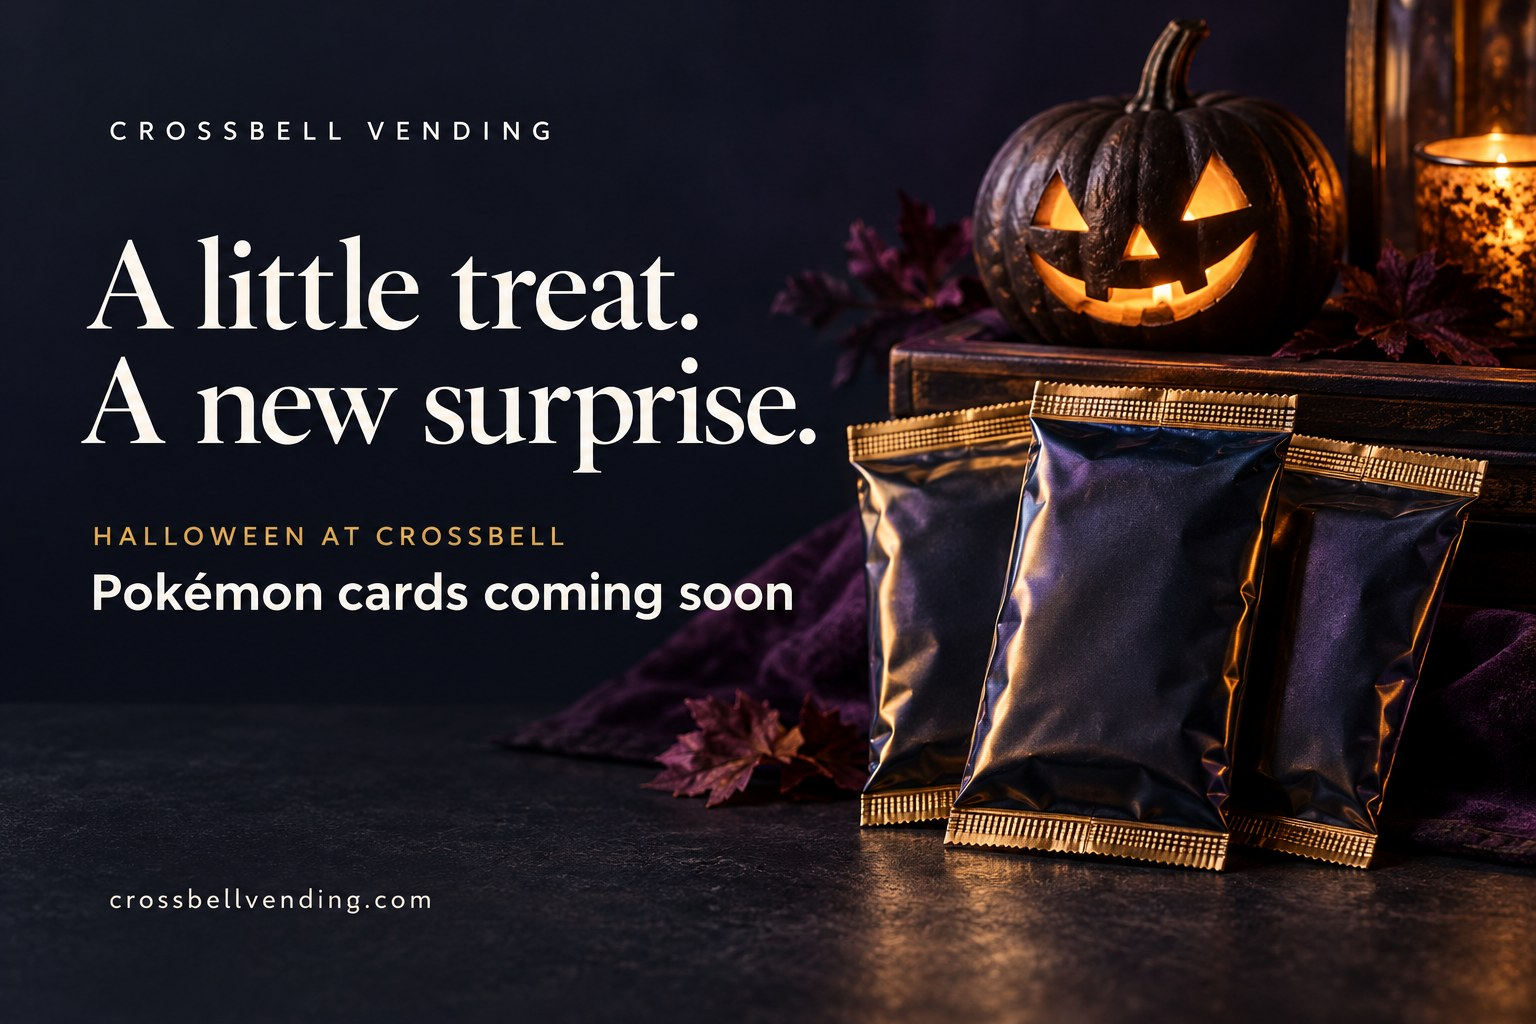
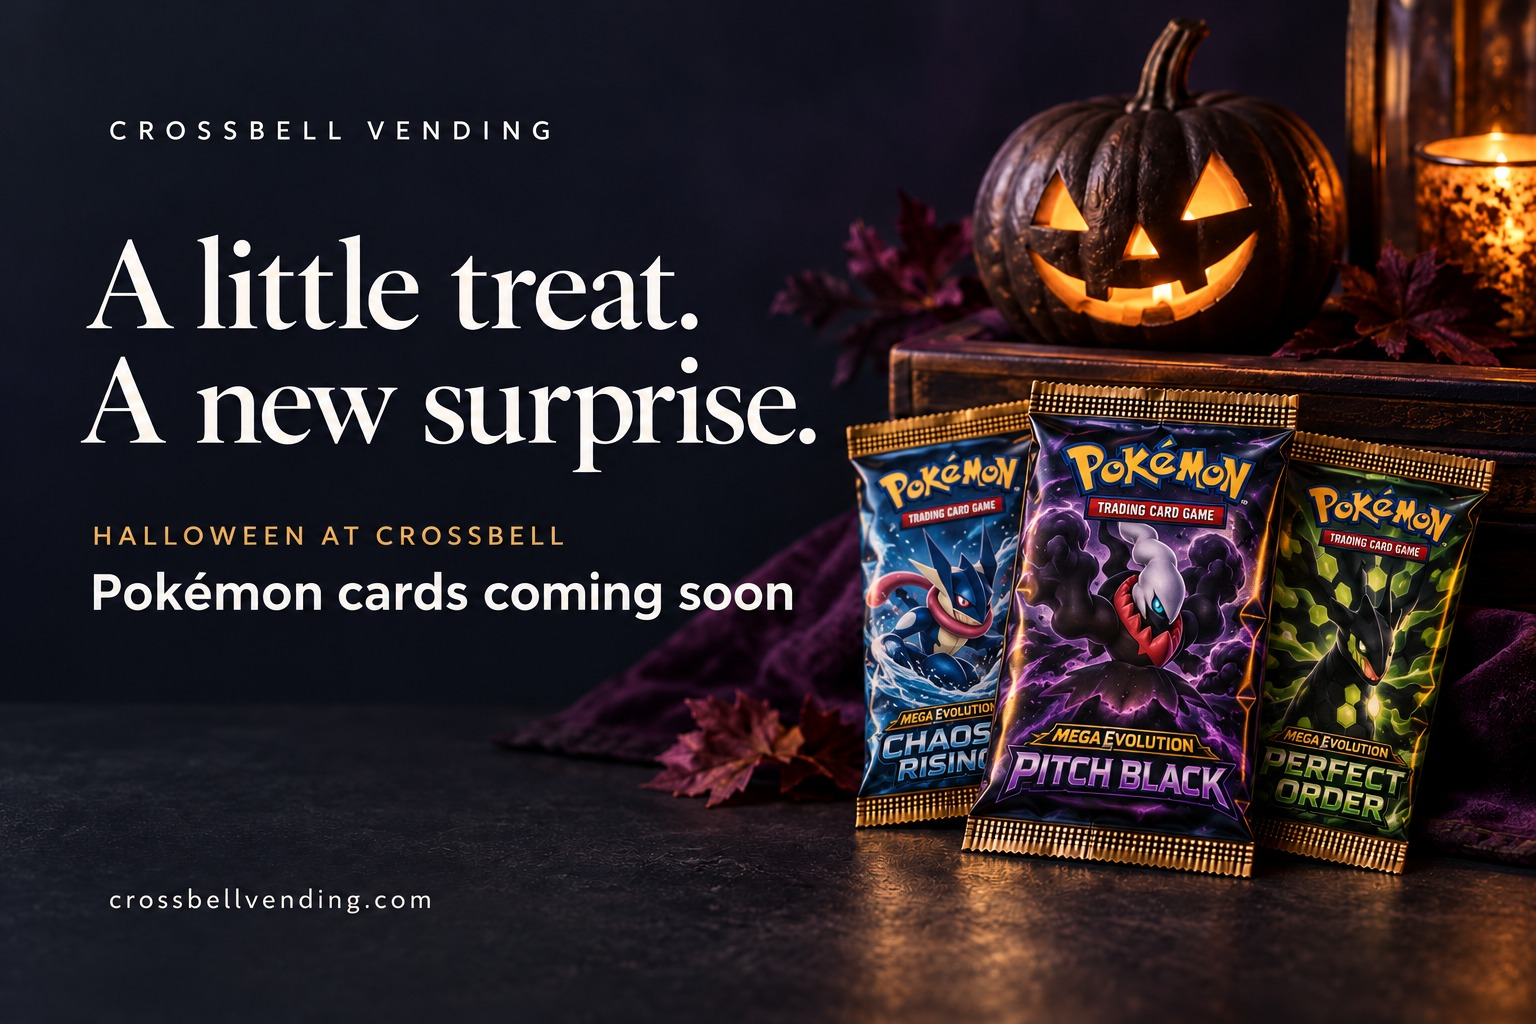
Update Halloween promotion with Pokemon booster pack artwork

diff --git a/src/data/promotions.ts b/src/data/promotions.ts
@@ -54,7 +54,7 @@ export const promotions: Promotion[] = [
   {
     id: "halloween-pokemon",
     image: halloweenPokemon,
-    alt: "Halloween at Crossbell: “A little treat. A new surprise. Pokémon cards coming soon.” Sealed gold-edged foil card packs beside a carved, glowing pumpkin.",
+    alt: "Halloween at Crossbell: “A little treat. A new surprise. Pokémon cards coming soon.” Pitch Black, Chaos Rising, and Perfect Order Pokémon booster pack illustrations beside a carved, glowing pumpkin.",
     label: "Coming soon",
     title: "Pokémon cards are on the way.",
     caption: "Trading cards are coming to the Kirkway cooler soon. Tell us which sets you'd want and we'll take it into account when we stock them.",
